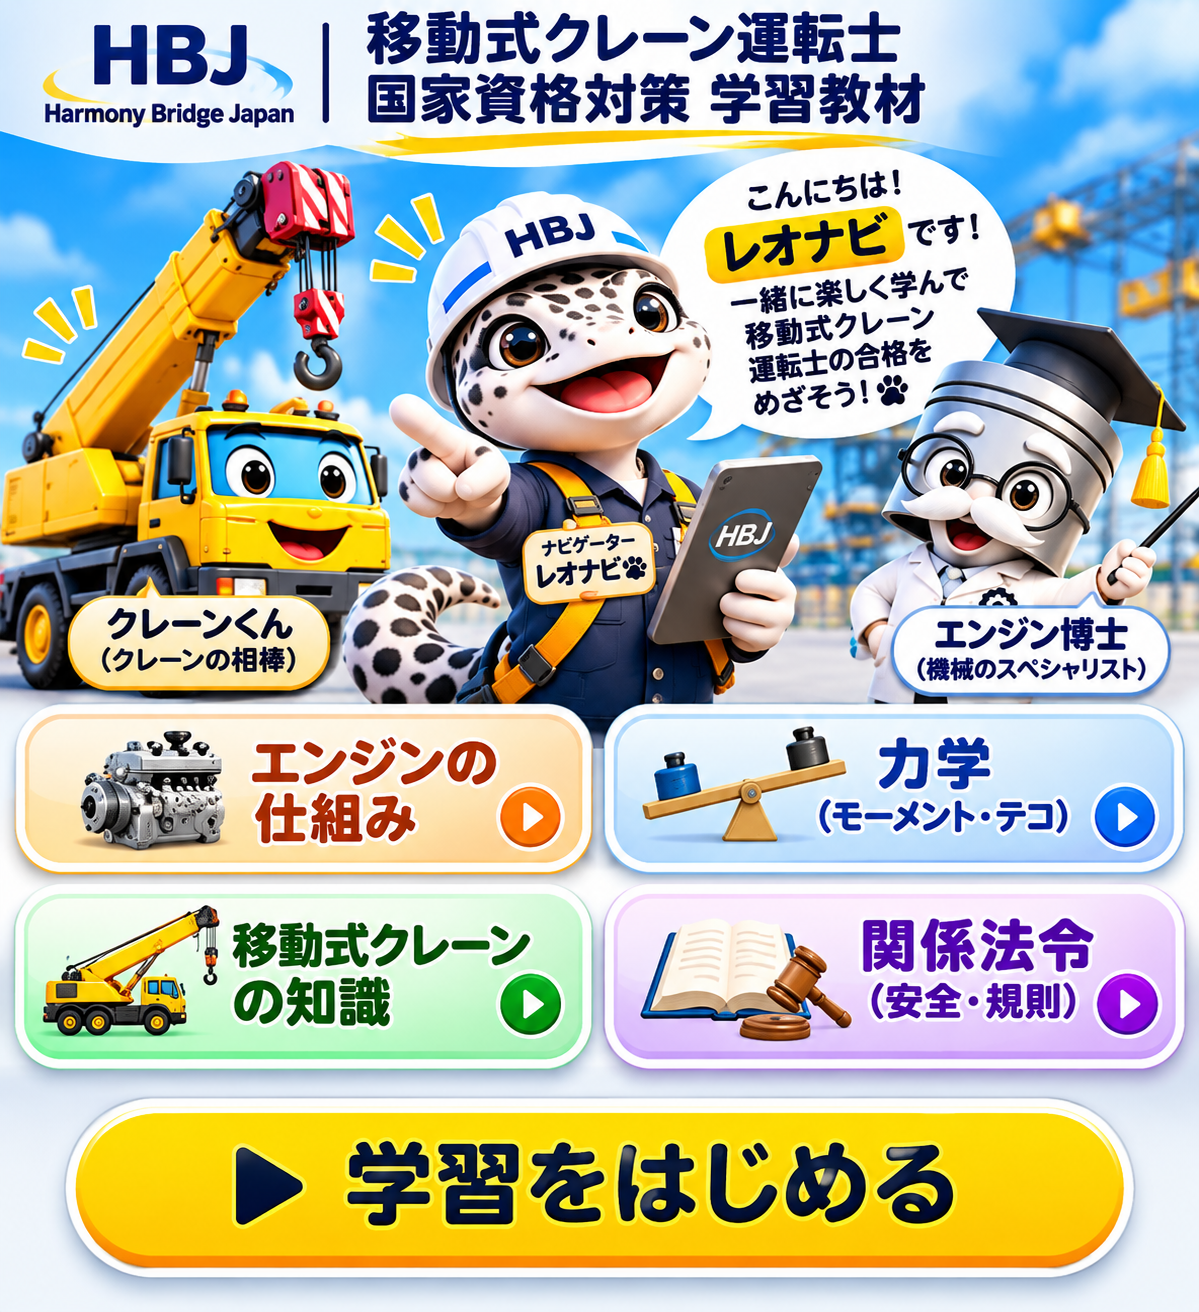
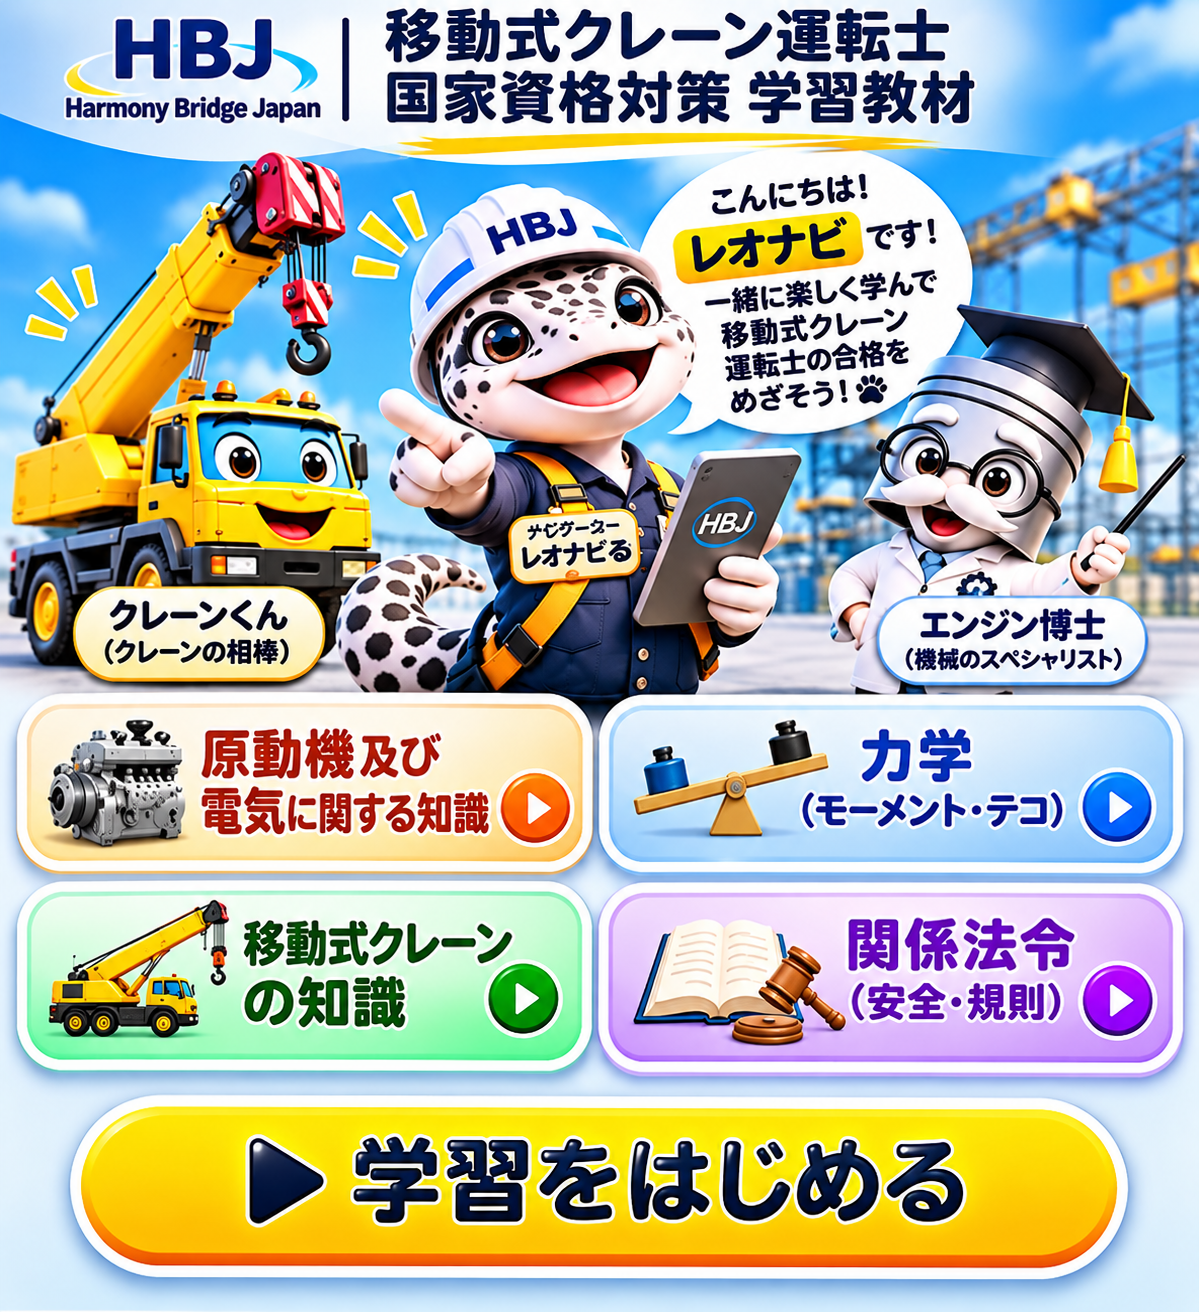
Add files via upload

diff --git a/index.html b/index.html
@@ -142,7 +142,7 @@ html,body{max-width:100%;overflow-x:clip}
 .hotspot.law{left:50.5%!important;top:66.7%!important;width:48%!important;height:13%!important}
 .hotspot.begin{left:6%!important;top:82.1%!important;width:88%!important;height:14.6%!important;border-radius:60px!important}
 @media(max-width:700px){.showcase-art{width:100%!important;max-width:100%!important;left:auto!important}.showcase-inner{overflow:visible!important}.hotspot{display:block!important}.quicklinks a{font-size:14px!important;min-height:48px;display:grid;place-items:center}.quicklinks a.primary{font-size:17px!important}}
-</style></head><body><section aria-label="レオナビ、クレーンくん、エンジン博士と学ぶ移動式クレーン運転士試験対策" class="showcase"><div class="showcase-inner"><img alt="HBJの学習教材。中央のレオナビ、左のクレーンくん、右のエンジン博士が、エンジン・力学・クレーン・関係法令の学習を案内" class="showcase-art" fetchpriority="high" src="hbj-hero-large-text.png"/><a aria-label="エンジンの仕組みを学ぶ" class="hotspot engine" href="engine-4cycle.html"></a><a aria-label="力学の計算問題と電卓操作を学ぶ" class="hotspot mechanics" href="crane-mechanics-quiz.html"></a><a aria-label="移動式クレーンの知識の問題を解く" class="hotspot crane" href="practice-202.html"></a><a aria-label="関係法令などの図解教材を見る" class="hotspot law" href="lessons.html"></a><a aria-label="学習をはじめる・科目別演習へ" class="hotspot begin" href="#start"></a></div><nav aria-label="教材メニュー" class="quicklinks"><a class="primary" href="practice-202.html">▶ 科目別演習 202問</a><a href="practice-202.html?mode=mock">模擬試験40問</a><a href="lessons.html">図解・基礎学習</a><a href="engine-4cycle.html">エンジン動画型教材</a><a href="crane-mechanics-quiz.html">力学・電卓操作8問</a></nav><p class="showcase-note">画像内の4つの学習メニューと「学習をはじめる」をタップできます。下のボタンからも各教材に進めます。</p></section>
+</style></head><body><section aria-label="レオナビ、クレーンくん、エンジン博士と学ぶ移動式クレーン運転士試験対策" class="showcase"><div class="showcase-inner"><img alt="HBJの学習教材。中央のレオナビ、左のクレーンくん、右のエンジン博士が、原動機及び電気・力学・クレーン・関係法令の学習を案内" class="showcase-art" fetchpriority="high" src="hbj-hero-large-text.png"/><a aria-label="原動機及び電気に関する知識：エンジンの動画型教材を開く" class="hotspot engine" href="engine-4cycle.html"></a><a aria-label="力学の計算問題と電卓操作を学ぶ" class="hotspot mechanics" href="crane-mechanics-quiz.html"></a><a aria-label="移動式クレーンの知識の問題を解く" class="hotspot crane" href="practice-202.html"></a><a aria-label="関係法令などの図解教材を見る" class="hotspot law" href="lessons.html"></a><a aria-label="学習をはじめる・科目別演習へ" class="hotspot begin" href="#start"></a></div><nav aria-label="教材メニュー" class="quicklinks"><a class="primary" href="practice-202.html">▶ 科目別演習 202問</a><a href="practice-202.html?mode=mock">模擬試験40問</a><a href="lessons.html">図解・基礎学習</a><a href="engine-4cycle.html">エンジン動画型教材</a><a href="crane-mechanics-quiz.html">力学・電卓操作8問</a></nav><p class="showcase-note">画像内の4つの学習メニューと「学習をはじめる」をタップできます。下のボタンからも各教材に進めます。</p></section>
 
 <main class="wrap main"><div class="notice"><span aria-hidden="true" class="notice-icon">✦</span><div><b>自分のペースで、ひとつずつ。</b><span>計算問題は、途中式と電卓の操作まで確認できます。</span></div></div>
 <a href="crane-mechanics-quiz.html" style="display:block;margin:18px 0 20px;padding:20px 22px;border-radius:18px;border:2px solid #b76a4c;background:#fff7f1;color:#24334b;text-decoration:none;box-shadow:0 7px 20px #273a4a0d"><span style="display:inline-block;font-size:12px;font-weight:800;color:#a45137;background:#ffe7d7;padding:4px 10px;border-radius:8px">おすすめ・8問の実践演習</span><h2 style="font-size:clamp(19px,4vw,24px);margin:10px 0 5px;color:#24334b">力学の計算問題＋電卓操作</h2><p style="margin:0 0 12px;font-size:14px;line-height:1.8;color:#48586c">回答すると、解説・途中式・電卓の押し方を確認できます。</p><strong style="display:inline-block;background:#a95039;color:white;border-radius:10px;padding:10px 15px;font-size:14px">8問の問題演習を始める →</strong></a>
